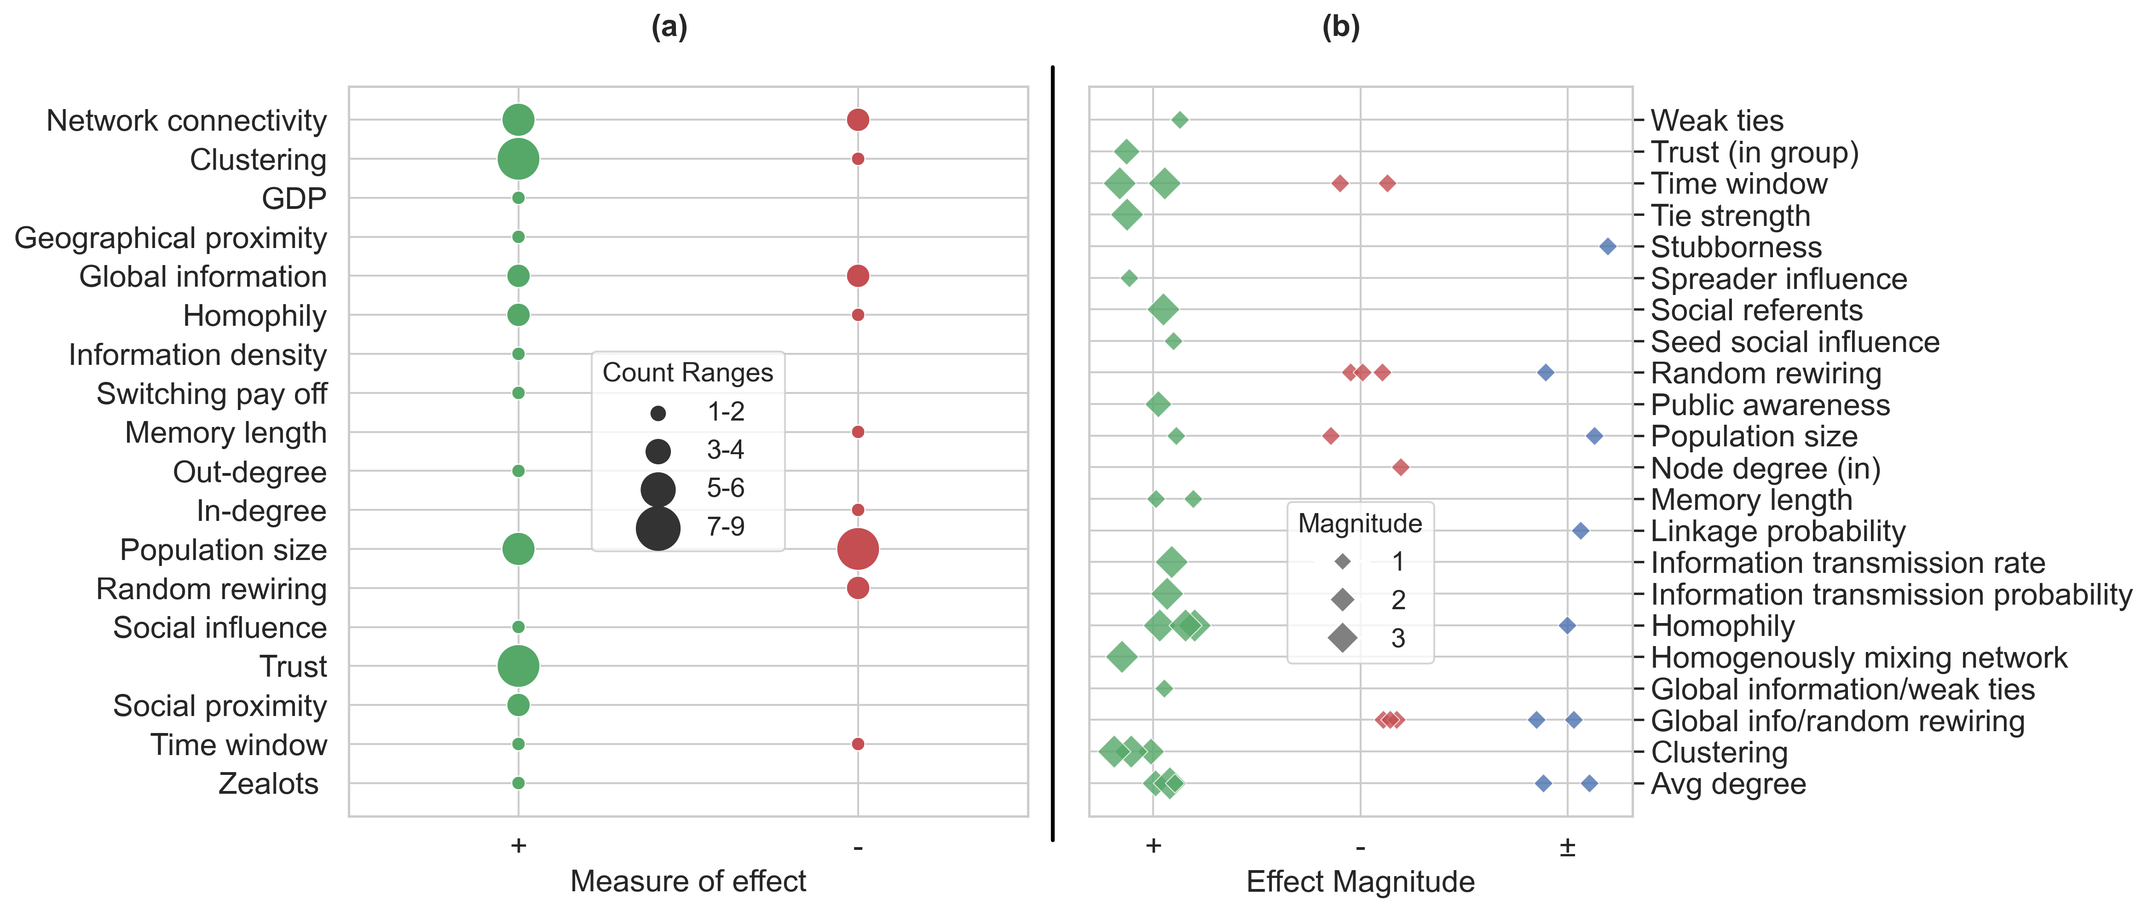
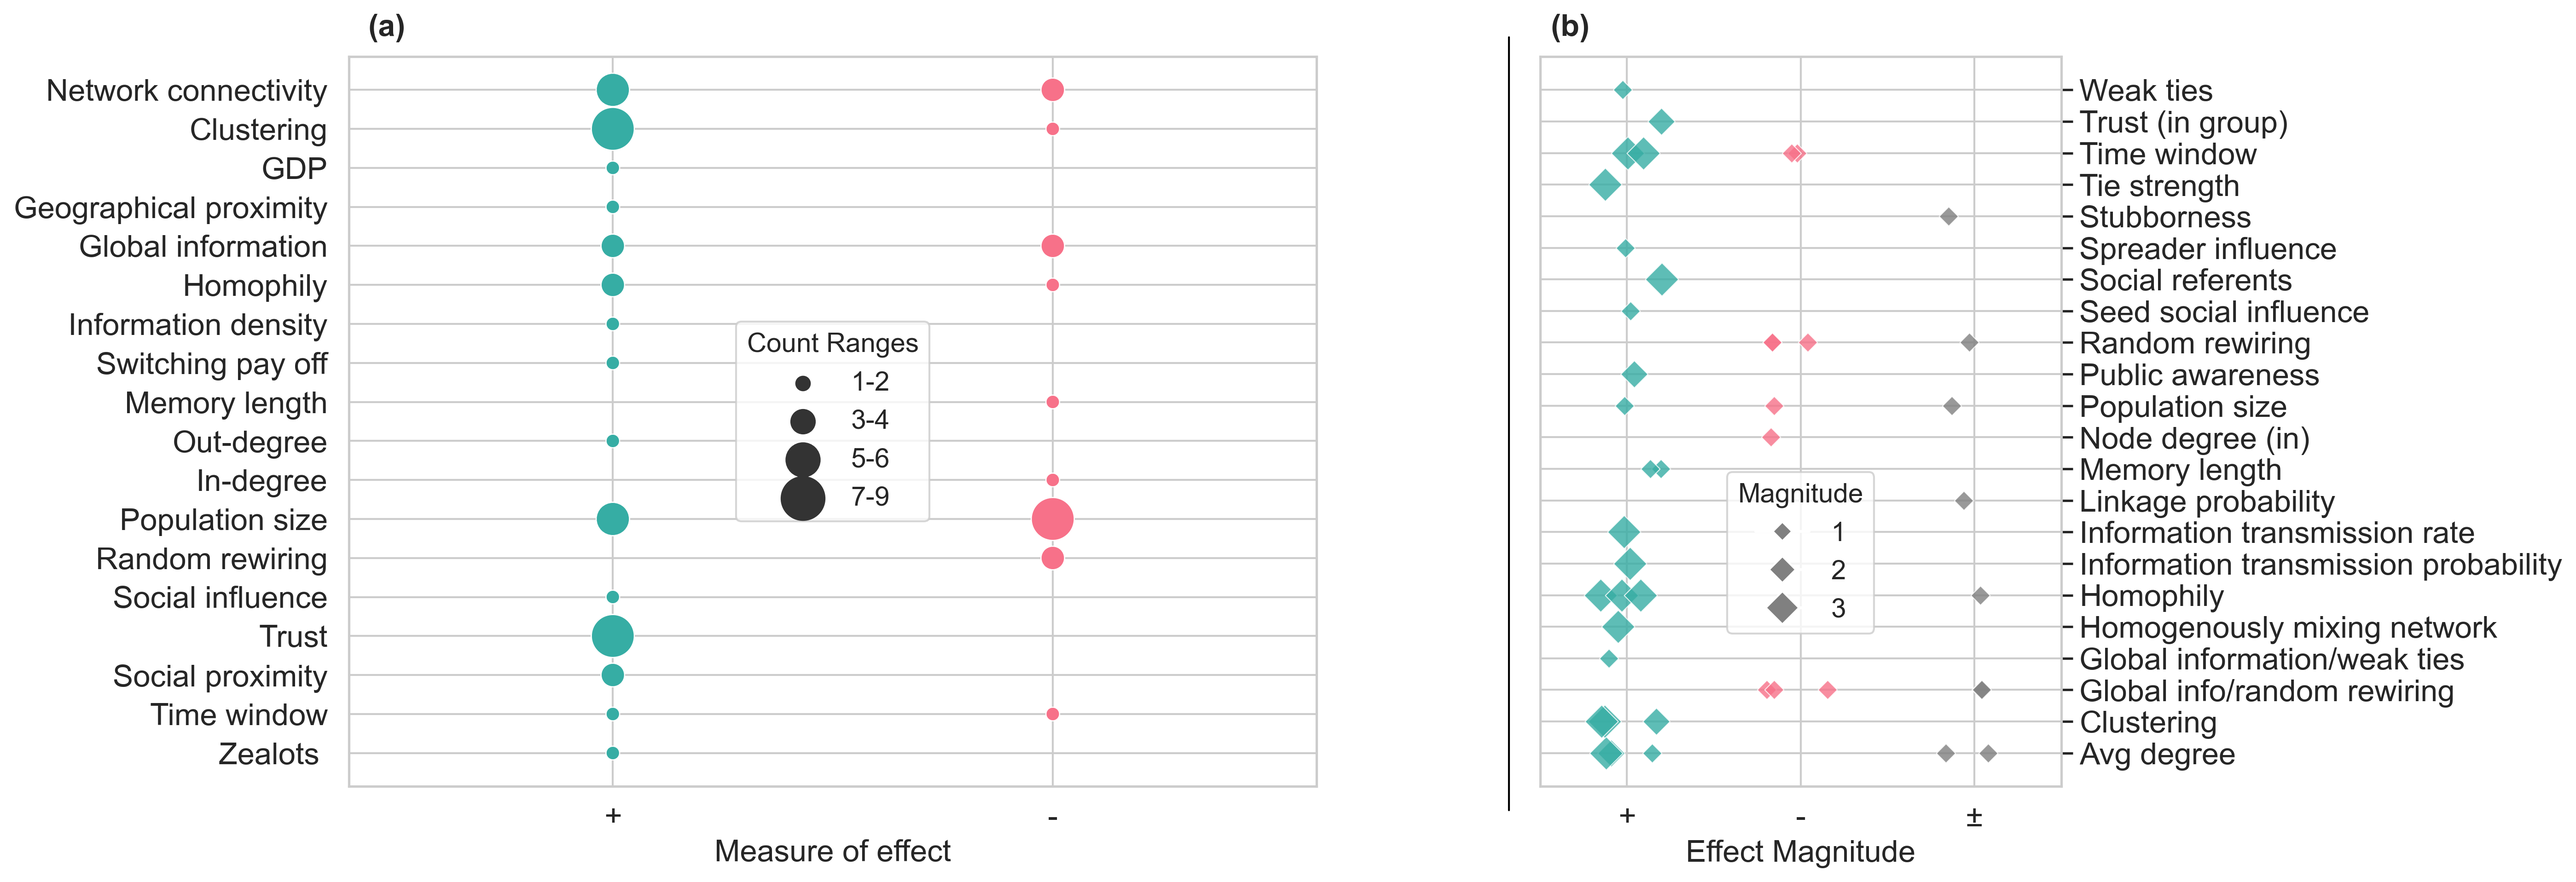
updating figures

diff --git a/Visualisations/Corrected_plot_factors_horizontal.py b/Visualisations/Corrected_plot_factors_horizontal.py
@@ -6,6 +6,8 @@ import numpy as np
 # File paths
 filepath = "../Data/Compiled/The Pareto effect in tipping social networks Tipping Data - Tipping_Data.tsv"
 
+palette = sns.color_palette("husl", 2)
+
 def to_numeric_magnitude(value):
     try:
         return float(value)
@@ -36,7 +38,8 @@ def preprocess_data(df):
     effect_magnitude_data['symbol'] = effect_magnitude_data.apply(magnitude_to_symbol, axis=1)
     
     effect_cascade_data['plotting_variable'] = effect_cascade_data['grouping_term'].combine_first(effect_cascade_data['variable'])
-    effect_cascade_data['colors'] = effect_cascade_data['effect_cascade_success'].map({'+': 'g', '-': 'r'}).fillna('b')
+    
+    effect_cascade_data['colors'] = effect_cascade_data['effect_cascade_success'].map({'+': palette[1], '-': palette[0], '-/+': 'purple'}).fillna('gray')
     
     count_data = effect_cascade_data.groupby(['plotting_variable', 'effect_cascade_success']).size().reset_index(name='counts')
     effect_cascade_data = effect_cascade_data.merge(count_data, on=['plotting_variable', 'effect_cascade_success'], how='left')
@@ -60,10 +63,13 @@ def preprocess_data(df):
 def plot_effect_cascade_success(effect_cascade_data, size_mapping_legend, ax):
     sns.set(style="whitegrid")
     
+    # Reverse the color mapping
+    color_mapping = {'+': palette[1], '-': palette[0], '-/+': 'purple', 'n': 'gray'}
+    
     sns.scatterplot(x="effect_cascade_success", y="plotting_variable", 
                     size="size_category", sizes=size_mapping_legend, 
                     data=effect_cascade_data, ax=ax, legend="full", 
-                    hue='colors', palette={'g': 'g', 'r': 'r', 'b': 'b'})
+                    hue='effect_cascade_success', palette=color_mapping)
     
     handles, labels = ax.get_legend_handles_labels()
     size_handles = handles[-4:]
@@ -73,15 +79,16 @@ def plot_effect_cascade_success(effect_cascade_data, size_mapping_legend, ax):
     ax.yaxis.set_tick_params(pad=5)
     ax.set_xlabel('Measure of effect', fontsize=16)
     ax.set_ylabel('', fontsize=16)
-    ax.set_xlim(-0.5, 1.5)
+    ax.set_xlim(-0.6, 1.6)
     ax.tick_params(axis='both', which='major', labelsize=16)
 
 def plot_effect_magnitude(effect_magnitude_data, ax):
+   
     sns.set(style="whitegrid")
     variables = effect_magnitude_data['variable'].unique()
     symbols = {'+': 0, '-': 1, '±': 2}
-    y_positions = {variable: i * 3 for i, variable in enumerate(variables)}  # Increase spacing between y-ticks
-    color_mapping = {'+': 'g', '-': 'r', '±': 'b'}
+    y_positions = {variable: i * 3 for i, variable in enumerate(variables)}
+    color_mapping = {'+': palette[1], '-': palette[0], '±': 'gray'}
     size_mapping = {1.0: 50, 2.0: 100, 3.0: 150}
     x_jitter = 0.2
     y_jitter = 0
@@ -90,7 +97,7 @@ def plot_effect_magnitude(effect_magnitude_data, ax):
         y = y_positions[row['variable']] + np.random.uniform(-y_jitter, y_jitter)
         x = symbols.get(row['symbol'], 2) + np.random.uniform(-x_jitter, x_jitter)
         size = size_mapping.get(row['numeric_magnitude'], 50)
-        color = color_mapping.get(row['symbol'], 'b')
+        color = color_mapping.get(row['symbol'], 'gray')
         sns.scatterplot(x=[x], y=[y], size=[size], sizes=(size, size), alpha=0.8, color=color, marker='D', edgecolor='w', linewidth=0.5, ax=ax)
     
     ax.set_yticks(list(y_positions.values()))
@@ -116,20 +123,32 @@ def main():
     dot_sizes = [50, 150, 300, 500]
     size_mapping_legend = {label: size for label, size in zip(labels, dot_sizes)}
     
-    fig, (ax1, ax2) = plt.subplots(1, 2, figsize=(12, 7), gridspec_kw={'width_ratios': [1, 0.8], 'wspace': 0.1})
+    fig = plt.figure(figsize=(12, 8), constrained_layout=True)
+    gs = fig.add_gridspec(1, 2, width_ratios=[0.55, 0.45])
+    
+    ax1 = fig.add_subplot(gs[0])
+    ax2 = fig.add_subplot(gs[1])
+    
     plot_effect_cascade_success(effect_cascade_data, size_mapping_legend, ax1)
     plot_effect_magnitude(effect_magnitude_data, ax2)
     
-    # Draw vertical line between plots
-    line = plt.Line2D((0.55, 0.55), (0.1, 0.9), color='black', linewidth=2, transform=fig.transFigure, figure=fig)
+    # Adjust the subplot layouts
+    ax1.set_xlim(-0.6, 1.6)
+    ax2.set_xlim(-0.5, 2.5)
+    
+    line = plt.Line2D((0.625, 0.625), (0.1, 0.9), color='black', linewidth=1, transform=fig.transFigure, figure=fig)
     fig.add_artist(line)
     
-    # Add (a) and (b) labels
-    ax1.text(0.5, 1.1, '(a)', transform=ax1.transAxes, fontsize=16, fontweight='bold', va='top', ha='right')
-    ax2.text(0.5, 1.1, '(b)', transform=ax2.transAxes, fontsize=16, fontweight='bold', va='top', ha='right')
+    # Adjust the position and size of the axes
+    ax1.set_position([0.25, 0.1, 0.35, 0.8])
+    ax2.set_position([0.65, 0.1, 0.35, 0.8 ])
     
-    plt.tight_layout()
-    plt.savefig("../Figures/Combined_plot_final.png", dpi=300, bbox_inches="tight")
+    # Add (a) and (b) labels
+    ax1.text(0.02, 1.02, '(a)', transform=ax1.transAxes, fontsize=16, fontweight='bold', va='bottom', ha='left')
+    ax2.text(0.02, 1.02, '(b)', transform=ax2.transAxes, fontsize=16, fontweight='bold', va='bottom', ha='left')
+    
+    # Save in SVG format
+    plt.savefig("../Figures/Combined_plot_final.svg", format='svg', bbox_inches="tight")
     plt.show()
 
 if __name__ == "__main__":
